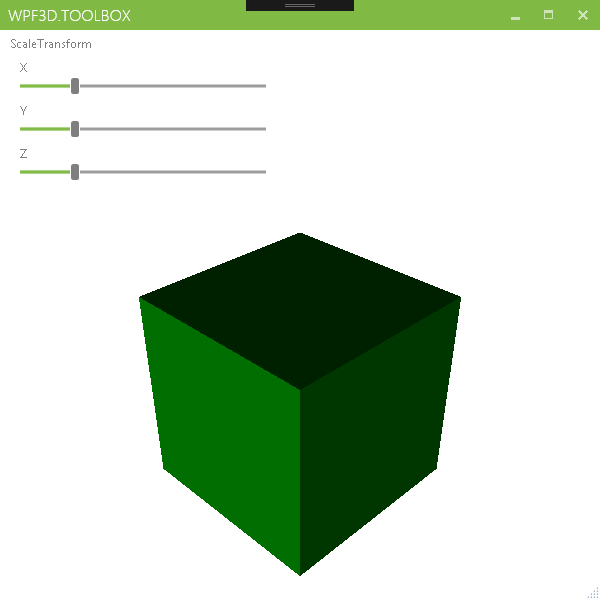
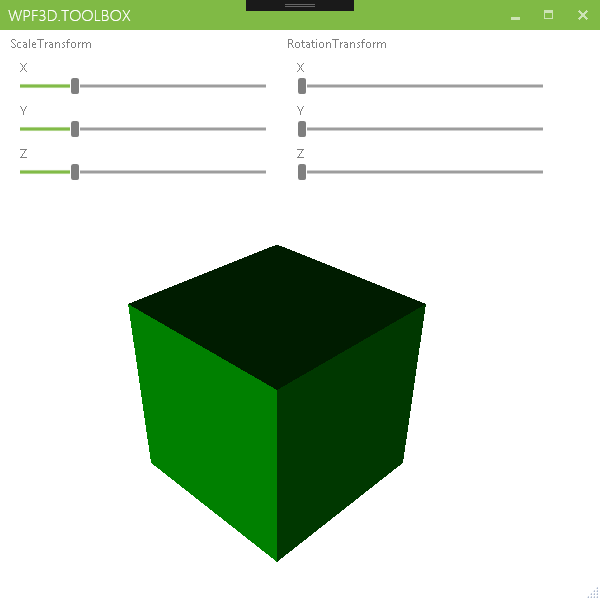
Implemented RotationTransformation.

diff --git a/WPF3D.ToolBox.Desktop/Views/MainWindow.xaml b/WPF3D.ToolBox.Desktop/Views/MainWindow.xaml
@@ -6,10 +6,18 @@
                       xmlns:mahApps="http://metro.mahapps.com/winfx/xaml/controls"
                       xmlns:controls="clr-namespace:WPF3D.ToolBox.Controls"
                       xmlns:tools="clr-namespace:WPF3D.ToolBox.Controls;assembly=WPF3D.ToolBox"
+                      xmlns:converters="clr-namespace:WPF3D.ToolBox.Converters;assembly=WPF3D.ToolBox"
                       mc:Ignorable="d"
                       Title="WPF3D.ToolBox" Height="600" Width="600"
                       ResizeMode="CanResizeWithGrip"
                       BorderThickness="0" GlowBrush="Black">
+
+    <mahApps:MetroWindow.Resources>
+        <converters:Rotate3DConverter x:Key="Rotate3DConverter" />
+        <Vector3D x:Key="RotationX" X="1" Y="0" Z="0" />
+        <Vector3D x:Key="RotationY" X="0" Y="1" Z="0" />
+        <Vector3D x:Key="RotationZ" X="0" Y="0" Z="1" />
+    </mahApps:MetroWindow.Resources>
 
     <Grid>
         <Grid.RowDefinitions>
@@ -17,69 +25,116 @@
             <RowDefinition Height="*" />
         </Grid.RowDefinitions>
 
-        <StackPanel Grid.Row="0">
+        <Grid.ColumnDefinitions>
+            <ColumnDefinition Width="Auto" />
+            <ColumnDefinition Width="Auto" />
+        </Grid.ColumnDefinitions>
+
+        <StackPanel Grid.Row="0"
+                    Grid.Column="0">
             <controls:GroupBoxControl x:Name="ScaleTransformGroupBox"
                                       Header="ScaleTransform">
                 <controls:GroupBoxControl Header="X">
-                    <Slider Name="SliderX" Minimum="0" Maximum="5" Value="1"/>
+                    <Slider Name="ScaleTransformSliderX" Minimum="0" Maximum="5" Value="1"
+                            mahApps:SliderHelper.EnableMouseWheel="MouseHover" />
                 </controls:GroupBoxControl>
                 <controls:GroupBoxControl Header="Y">
-                    <Slider Name="SliderY" Minimum="0" Maximum="5" Value="1"/>
+                    <Slider Name="ScaleTransformSliderY" Minimum="0" Maximum="5" Value="1"
+                            mahApps:SliderHelper.EnableMouseWheel="MouseHover" />
                 </controls:GroupBoxControl>
                 <controls:GroupBoxControl Header="Z">
-                    <Slider Name="SliderZ" Minimum="0" Maximum="5" Value="1"/>
+                    <Slider Name="ScaleTransformSliderZ" Minimum="0" Maximum="5" Value="1"
+                            mahApps:SliderHelper.EnableMouseWheel="MouseHover" />
+                </controls:GroupBoxControl>
+            </controls:GroupBoxControl>
+        </StackPanel>
+
+        <StackPanel Grid.Row="0"
+                    Grid.Column="1">
+            <controls:GroupBoxControl x:Name="RotationTransformGroupBox"
+                                      Header="RotationTransform">
+                <controls:GroupBoxControl Header="X">
+                    <Slider Name="RotationSliderX" Minimum="0" Maximum="360" Value="0"
+                            mahApps:SliderHelper.EnableMouseWheel="MouseHover" />
+                </controls:GroupBoxControl>
+                <controls:GroupBoxControl Header="Y">
+                    <Slider Name="RotationSliderY" Minimum="0" Maximum="360" Value="0"
+                            mahApps:SliderHelper.EnableMouseWheel="MouseHover" />
+                </controls:GroupBoxControl>
+                <controls:GroupBoxControl Header="Z">
+                    <Slider Name="RotationSliderZ" Minimum="0" Maximum="360" Value="0"
+                            mahApps:SliderHelper.EnableMouseWheel="MouseHover" />
                 </controls:GroupBoxControl>
             </controls:GroupBoxControl>
         </StackPanel>
 
         <tools:Trackport3D Grid.Row="1"
+                           Grid.Column="0"
+                           Grid.ColumnSpan="2"
                            Cursor="Hand"
-                           ViewMode="Wireframe">
+                           ViewMode="Solid">
+
             <ModelVisual3D>
-                <ModelVisual3D.Transform>
-                    <Transform3DGroup >
-                        <Transform3DGroup.Children>
+                <ModelVisual3D.Children>
+                    <ModelVisual3D>
+                        <ModelVisual3D.Content>
+                            <DirectionalLight Color="White"
+                                              Direction="-0.5,-0.25,-1"/>
+                        </ModelVisual3D.Content>
+                    </ModelVisual3D>
 
-                            <ScaleTransform3D CenterX="0" CenterY="0" CenterZ="0"
-                                              ScaleX="{Binding ElementName=SliderX, Path=Value}" ScaleY="1" ScaleZ="1" />
+                    <ModelVisual3D>
+                        <ModelVisual3D.Transform>
+                            <Transform3DGroup >
+                                <Transform3DGroup.Children>
 
-                            <ScaleTransform3D CenterX="0" CenterY="0" CenterZ="0"
-                                              ScaleY="{Binding ElementName=SliderY, Path=Value}" ScaleX="1" ScaleZ="1" />
+                                    <ScaleTransform3D CenterX="0" CenterY="0" CenterZ="0"
+                                                      ScaleX="{Binding ElementName=ScaleTransformSliderX, Path=Value}" ScaleY="1" ScaleZ="1" />
 
-                            <ScaleTransform3D CenterX="0" CenterY="0" CenterZ="0"
-                                              ScaleZ="{Binding ElementName=SliderZ, Path=Value}" ScaleX="1" ScaleY="1" />
+                                    <ScaleTransform3D CenterX="0" CenterY="0" CenterZ="0"
+                                                      ScaleY="{Binding ElementName=ScaleTransformSliderY, Path=Value}" ScaleX="1" ScaleZ="1" />
 
-                        </Transform3DGroup.Children>
-                    </Transform3DGroup>
-                </ModelVisual3D.Transform>
-                
-                <ModelVisual3D.Content>
-                    <GeometryModel3D>
-                        <GeometryModel3D.Geometry>
-                            <MeshGeometry3D TriangleIndices = "0,1,2     2,3,0  
-									                           4,7,6     6,5,4  
-									                           8,11,10   10,9,8  
-									                           12,13,14  14,15,12  
-									                           16,17,18  18,19,16
-									                           20,23,22  22,21,20"
-                                            
-                                            Positions = "-1,-1,1   -1,-1,-1  1,-1,-1  1,-1,1
-													     -1,1,1    -1,1,-1   1,1,-1   1,1,1
-													     -1,-1,1   -1,1,1    1,1,1    1,-1,1
-										                 -1,-1,-1  -1,1,-1   1,1,-1   1,-1,-1
-										                 -1,-1,1   -1,1,1   -1,1,-1  -1,-1,-1
-											              1,-1,1    1,1,1    1,1,-1   1,-1,-1" />
-                        </GeometryModel3D.Geometry>
+                                    <ScaleTransform3D CenterX="0" CenterY="0" CenterZ="0"
+                                                      ScaleZ="{Binding ElementName=ScaleTransformSliderZ, Path=Value}" ScaleX="1" ScaleY="1" />
 
-                        <GeometryModel3D.Material>
-                            <DiffuseMaterial>
-                                <DiffuseMaterial.Brush>
-                                    <SolidColorBrush Color="Green" />
-                                </DiffuseMaterial.Brush>
-                            </DiffuseMaterial>
-                        </GeometryModel3D.Material>
-                    </GeometryModel3D>
-                </ModelVisual3D.Content>
+                                    <RotateTransform3D Rotation="{Binding ElementName=RotationSliderX, Path=Value, Converter={StaticResource Rotate3DConverter}, ConverterParameter={StaticResource RotationX}}" />
+                                    <RotateTransform3D Rotation="{Binding ElementName=RotationSliderY, Path=Value, Converter={StaticResource Rotate3DConverter}, ConverterParameter={StaticResource RotationY}}" />
+                                    <RotateTransform3D Rotation="{Binding ElementName=RotationSliderZ, Path=Value, Converter={StaticResource Rotate3DConverter}, ConverterParameter={StaticResource RotationZ}}" />
+
+                                </Transform3DGroup.Children>
+                            </Transform3DGroup>
+                        </ModelVisual3D.Transform>
+
+                        <ModelVisual3D.Content>
+                            <GeometryModel3D>
+                                <GeometryModel3D.Geometry>
+                                    <MeshGeometry3D TriangleIndices = "0,1,2     2,3,0  
+                                                                       4,7,6     6,5,4  
+									                                   8,11,10   10,9,8  
+									                                  12,13,14  14,15,12  
+									                                  16,17,18  18,19,16
+									                                  20,23,22  22,21,20"
+
+                                                            Positions = "-1,-1,1   -1,-1,-1  1,-1,-1  1,-1,1
+													                     -1,1,1    -1,1,-1   1,1,-1   1,1,1
+													                     -1,-1,1   -1,1,1    1,1,1    1,-1,1
+										                                 -1,-1,-1  -1,1,-1   1,1,-1   1,-1,-1
+										                                 -1,-1,1   -1,1,1   -1,1,-1  -1,-1,-1
+											                              1,-1,1    1,1,1    1,1,-1   1,-1,-1" />
+                                </GeometryModel3D.Geometry>
+
+                                <GeometryModel3D.Material>
+                                    <DiffuseMaterial>
+                                        <DiffuseMaterial.Brush>
+                                            <SolidColorBrush Color="Green" />
+                                        </DiffuseMaterial.Brush>
+                                    </DiffuseMaterial>
+                                </GeometryModel3D.Material>
+                            </GeometryModel3D>
+                        </ModelVisual3D.Content>
+                    </ModelVisual3D>
+                </ModelVisual3D.Children>
+
             </ModelVisual3D>
         </tools:Trackport3D>
 

diff --git a/WPF3D.ToolBox/Controls/Trackport3D.xaml b/WPF3D.ToolBox/Controls/Trackport3D.xaml
@@ -20,8 +20,7 @@
                     <AmbientLight x:Name="AmbientLight" 
                                   Color="Black" />
                     <DirectionalLight x:Name="Headlight"
-                                      Color="White"
-                                      Direction="-0.5,-0.3,-1" />
+                                      Color="White" />
                 </Model3DGroup>
             </ModelVisual3D.Content>
         </ModelVisual3D>

diff --git a/WPF3D.ToolBox/Converters/Rotate3DConverter.cs b/WPF3D.ToolBox/Converters/Rotate3DConverter.cs
@@ -1,0 +1,24 @@
+using System;
+using System.Globalization;
+using System.Windows.Data;
+using System.Windows.Media.Media3D;
+
+namespace WPF3D.ToolBox.Converters
+{
+    public sealed class Rotate3DConverter
+        : IValueConverter
+    {
+        public object Convert(object value, Type targetType, object parameter, CultureInfo culture)
+        {
+            double doubleValue = System.Convert.ToDouble(value);
+            Vector3D axis = (Vector3D) System.Convert.ChangeType(parameter, typeof(Vector3D)); 
+
+            return new AxisAngleRotation3D(axis, doubleValue);
+        }
+
+        public object ConvertBack(object value, Type targetType, object parameter, CultureInfo culture)
+        {
+            return null;
+        }
+    }
+}

diff --git a/WPF3D.ToolBox/ScreenSpaceLines3D.cs b/WPF3D.ToolBox/ScreenSpaceLines3D.cs
@@ -19,7 +19,7 @@ namespace WPF3D.ToolBox
     /// is specified in the 2D coordinate system of the container
     /// Viewport3D, not the screen.
     /// </summary>
-    sealed class ScreenSpaceLines3D
+    public sealed class ScreenSpaceLines3D
         : ModelVisual3D
     {
         public static readonly DependencyProperty ColorProperty =
